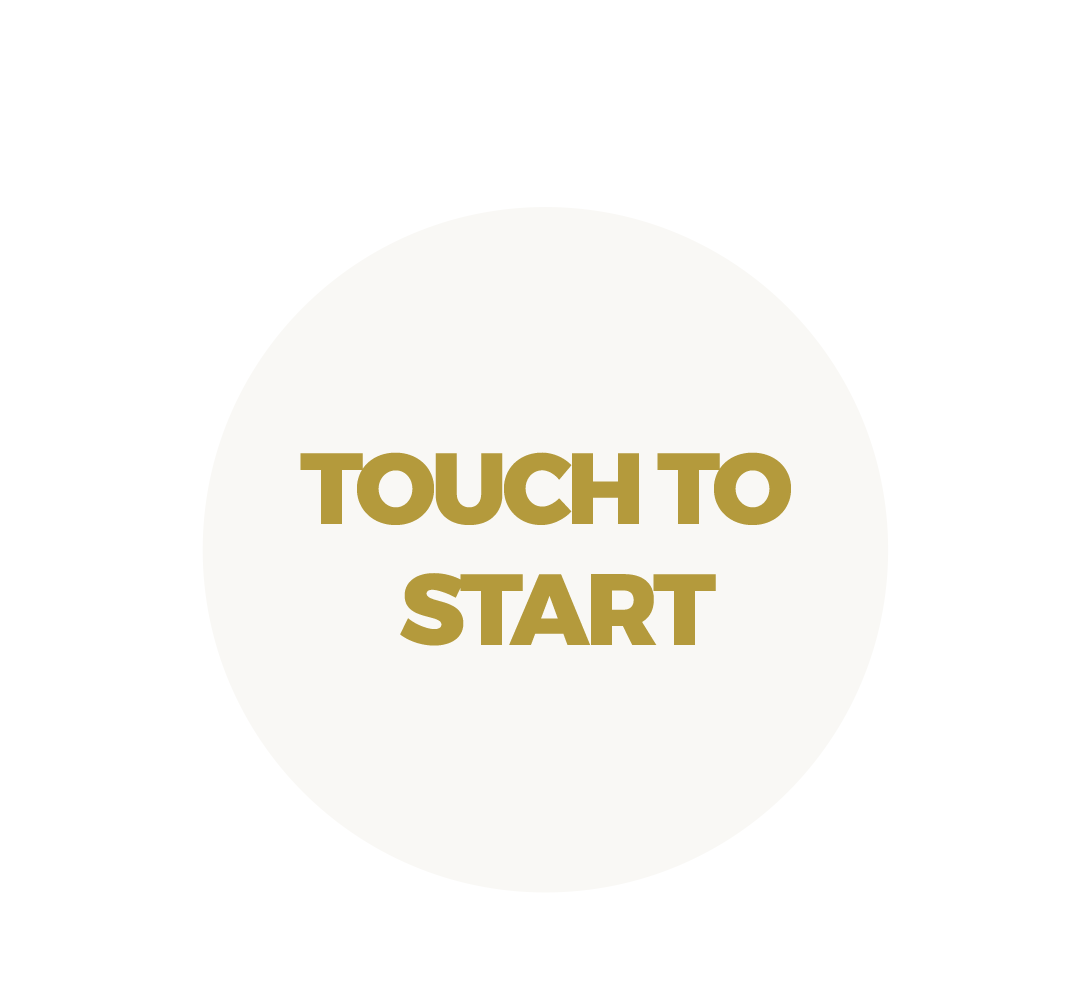
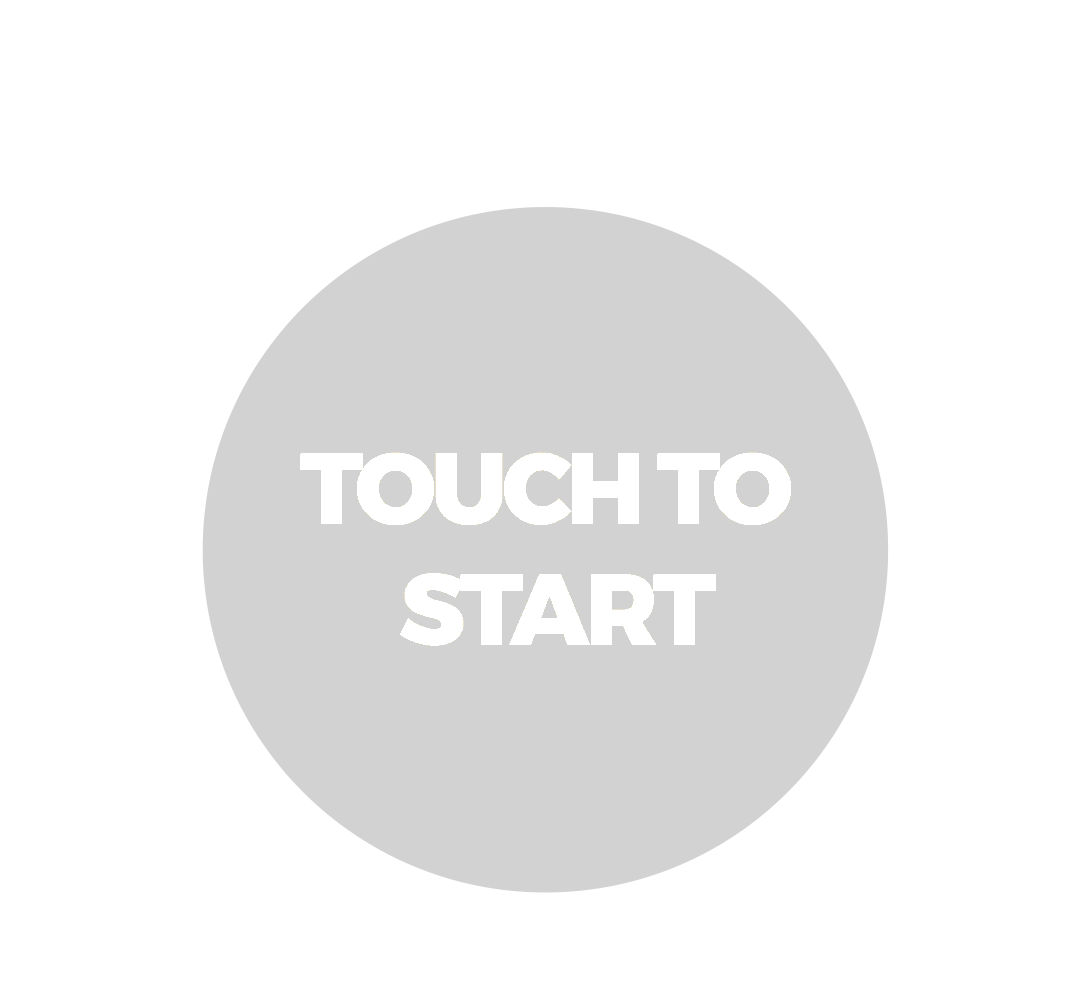
completing ui design modification

diff --git a/src/components/Steps/Resultwdisplayfix.jsx b/src/components/Steps/Resultwdisplayfix.jsx
@@ -1,0 +1,174 @@
+import React, { useState } from "react";
+import { printImage, sendWhatsApp } from "../../server/api";
+import axios from "axios"; // masih butuh buat upload image
+const API_BASE_URL = " http://127.0.0.1:5000/api"; // ganti ke tunnel jika online
+
+const Result = () => {
+  const [qrCode, setQRCode] = useState(false);
+  const [print, setPrint] = useState(false);
+  const [printMessage, setPrintMessage] = useState(false);
+  const [printer, setPrinter] = useState(""); // Printer selection
+  const [printSize, setPrintSize] = useState("4x6"); // Default print size
+  const [loading, setLoading] = useState(false);
+
+  const handlePrint = async () => {
+    const result = localStorage.getItem("swappedPhoto") || sessionStorage.getItem("swappedPhoto");
+
+    if (!result) {
+      alert("No image found to print!");
+      return;
+    }
+
+    try {
+      const imageBlob = await fetch(result).then((res) => res.blob());
+      const response = await printImage(imageBlob, printer, printSize);
+
+      if (response.message) {
+        setPrint(false);
+        PopUpPrint();
+      } else {
+        alert("Failed to print image.");
+      }
+    } catch (error) {
+      console.error("Error during print:", error);
+      alert("An error occurred while printing.");
+    }
+  };
+
+  const PopUpPrint = () => {
+    setPrintMessage(true);
+
+    setTimeout(() => {
+      setPrintMessage(false);
+    }, 2000);
+  };
+
+  const handleSendWhatsApp = async () => {
+    setLoading(true);
+    try {
+      const swappedPhoto = localStorage.getItem("swappedPhoto") || sessionStorage.getItem("swappedPhoto");
+      if (!swappedPhoto) {
+        alert("No image found!");
+        return;
+      }
+
+      // convert base64 -> Blob -> File
+      const blob = await fetch(swappedPhoto).then((res) => res.blob());
+      const file = new File([blob], "result.jpg", { type: blob.type });
+
+      // Upload ke /api/save-image
+      const formData = new FormData();
+      formData.append("image", file);
+
+      const saveRes = await axios.post(`${API_BASE_URL}/save-image`, formData, {
+        headers: { "Content-Type": "multipart/form-data" },
+      });
+
+      const imageUrl = saveRes.data.url;
+      console.log("Image saved at:", imageUrl);
+
+      const phone = localStorage.getItem("userPhone"); // pastikan format 62xxxx
+      if (!phone) {
+        alert("No phone number found!");
+        return;
+      }
+
+      // pake sendWhatsApp dari api.jsx
+      const waRes = await sendWhatsApp(phone, imageUrl);
+
+      console.log("WA Response:", waRes);
+      alert("Foto berhasil dikirim ke WhatsApp!");
+      localStorage.clear();
+    } catch (err) {
+      console.error("Error sending WhatsApp:", err);
+      alert("Gagal kirim ke WhatsApp");
+    } finally {
+      setLoading(false);
+    }
+  };
+
+  return (
+    <div className="w-full flex flex-col items-center justify-center">
+      <h1 className="text-white text-[5em] font-bold">This is Yours</h1>
+
+      <img
+        src={localStorage.getItem("swappedPhoto") || sessionStorage.getItem("swappedPhoto")}
+        alt="Swapped result"
+        className="w-3/5 my-[6rem]"
+      />
+
+      <div className="flex items-center justify-center gap-4">
+        {/* <button
+          onClick={handleSendWhatsApp}
+          disabled={loading}
+          className="bg-green-500 text-white p-4 rounded-md text-2xl"
+        >
+          {loading ? "Sending..." : "Send to WhatsApp"}
+        </button> */}
+        <div>
+          <img
+            // Taro di public folder
+            src="/qrcode.png"
+            alt="QR code icon"
+            onClick={() => {
+              setQRCode((prevState) => !prevState);
+              setPrint(false);
+            }}
+          />
+        </div>
+        <div>
+          <img
+            src="/print.png"
+            alt="Print icon"
+            onClick={() => {
+              setPrint((prevState) => !prevState);
+              setQRCode(false);
+            }}
+          />
+        </div>
+      </div>
+
+      {qrCode && (
+        <div className="z-10 absolute inset-0 bg-black/80 grid">
+          <img
+            src="/Hasil.png"
+            alt="QR Code Result"
+            onClick={() => setQRCode(false)}
+            className="w-3/5 m-auto"
+          />
+        </div>
+      )}
+
+      {print && (
+        <div className="z-10 absolute inset-0 bg-black/80 text-white grid text-[4em] p-4">
+          <div className="m-auto">
+            <h1 className="mb-4">Print the image?</h1>
+            <div className="flex gap-4">
+              <button
+                className="bg-red-500 text-white p-2 w-1/2 rounded-md"
+                onClick={() => setPrint(false)}
+              >
+                No
+              </button>
+              <button
+                className="bg-green-500 text-white p-2 w-1/2 rounded-md"
+                onClick={handlePrint}
+              >
+                Yes
+              </button>
+            </div>
+          </div>
+        </div>
+      )}
+
+      {/* Print Pop-up */}
+      {printMessage ? (
+        <div className="bg-[#d2d2d2] z-10 absolute w-fit mx-auto text-[5em] text-white py-2 px-8 rounded-md">
+          Printed!
+        </div>
+      ) : null}
+    </div>
+  );
+};
+
+export default Result;

diff --git a/src/components/Steps/Capture.jsx b/src/components/Steps/Capture.jsx
@@ -72,6 +72,24 @@ const CameraCapture = ({ goBack, goTo }) => {
     setIsVideoVisible(false);
   };
 
+  const compressImage = (url, maxWidth = 1200, quality = 0.8) => {
+    return new Promise((resolve) => {
+      const img = new Image();
+      img.onload = () => {
+        const canvas = document.createElement('canvas');
+        const ctx = canvas.getContext('2d');
+        
+        const ratio = Math.min(maxWidth / img.width, maxWidth / img.height);
+        canvas.width = img.width * ratio;
+        canvas.height = img.height * ratio;
+        
+        ctx.drawImage(img, 0, 0, canvas.width, canvas.height);
+        resolve(canvas.toDataURL('image/jpeg', quality));
+      };
+      img.src = url;
+    });
+  };
+
   const handleSwapFace = async (sourceImageBlob) => {
     const templateUrl = localStorage.getItem("selectedTemplate");
     const sourceFile = new File([sourceImageBlob], "source.jpg", {
@@ -84,7 +102,14 @@ const CameraCapture = ({ goBack, goTo }) => {
       const swappedImageUrl = await swapFace(templateUrl, sourceFile);
       if (swappedImageUrl) {
         setCapturedPhoto(swappedImageUrl);
-        localStorage.setItem("swappedPhoto", swappedImageUrl);
+        
+        try {
+          const compressedUrl = await compressImage(swappedImageUrl);
+          localStorage.setItem("swappedPhoto", compressedUrl);
+        } catch (storageError) {
+          console.warn("Storage quota exceeded, using session storage:", storageError);
+          sessionStorage.setItem("swappedPhoto", swappedImageUrl);
+        }
       }
     } catch (error) {
       console.error("Error swapping face:", error);
@@ -142,14 +167,14 @@ const CameraCapture = ({ goBack, goTo }) => {
               <>
                 <button
                   onClick={goBack}
-                  className="bg-[#BF9A30] px-14 rounded-full uppercase font-bold text-white text-[2.8em]"
+                  className="bg-[#d2d2d2] px-14 rounded-full uppercase font-bold text-white text-[2.8em]"
                   disabled={isCountingDown}
                 >
                   Back
                 </button>
                 <button
                   onClick={startCountdown}
-                  className="bg-[#BF9A30] px-14 rounded-full uppercase font-bold text-white text-[2.8em]"
+                  className="bg-[#d2d2d2] px-14 rounded-full uppercase font-bold text-white text-[2.8em]"
                   disabled={isCountingDown}
                 >
                   Capture
@@ -159,13 +184,13 @@ const CameraCapture = ({ goBack, goTo }) => {
               <>
                 <button
                   onClick={handleCancel}
-                  className="bg-[#BF9A30] px-14 rounded-full uppercase font-bold text-white text-[2.8em]"
+                  className="bg-[#d2d2d2] px-14 rounded-full uppercase font-bold text-white text-[2.8em]"
                 >
                   Retake
                 </button>
                 <button
                   onClick={() => handleSwapFace(capturedPhoto)}
-                  className="bg-[#BF9A30] px-14 rounded-full uppercase font-bold text-white text-[2.8em]"
+                  className="bg-[#d2d2d2] px-14 rounded-full uppercase font-bold text-white text-[2.8em]"
                 >
                   Process
                 </button>

diff --git a/src/App.jsx b/src/App.jsx
@@ -124,7 +124,7 @@ const App = () => {
                         <button
                           onClick={backStep}
                           disabled={step === 1}
-                          className="bg-[#BF9A30] px-14 rounded-full uppercase font-bold text-white"
+                          className="bg-[#d2d2d2] px-14 rounded-full uppercase font-bold text-white"
                         >
                           Back
                         </button>
@@ -133,9 +133,9 @@ const App = () => {
                           disabled={step === steps.length || isNextDisabled}
                           className={`px-14 rounded-full uppercase font-bold text-white ${
                             step === steps.length
-                              ? "bg-[#BF9A30]/50 cursor-not-allowed"
-                              : "bg-[#BF9A30]"
-                          } ${isNextDisabled ? "cursor-not-allowed bg-[#BF9A30]/70" : ""}`}
+                              ? "bg-[#d2d2d2]/50 cursor-not-allowed"
+                              : "bg-[#d2d2d2]"
+                          } ${isNextDisabled ? "cursor-not-allowed bg-[#d2d2d2]/70" : ""}`}
                         >
                           Next
                         </button>

diff --git a/src/pages/csv.jsx b/src/pages/csv.jsx
@@ -16,7 +16,7 @@ const ExportCSV = () => {
         <div className="bg-black/20 text-white flex flex-col justify-center items-center h-2/5">
             <h1 className="text-[5em]">Export Database to CSV?</h1>
             <button
-                className="bg-[#BF9A30] px-10 py-2 rounded-lg text-[4em] mt-10"
+                className="bg-[#d2d2d2] px-10 py-2 rounded-lg text-[4em] mt-10"
                 onClick={handleExport}
             >
                 Export

diff --git a/src/pages/print.jsx b/src/pages/print.jsx
@@ -76,7 +76,7 @@ const Print = () => {
       </div>
 
       <button
-        className="bg-[#BF9A30] p-2 w-3/5 mx-auto"
+        className="bg-[#d2d2d2] p-2 w-3/5 mx-auto"
         onClick={saveSettings}
       >
         Save Settings
